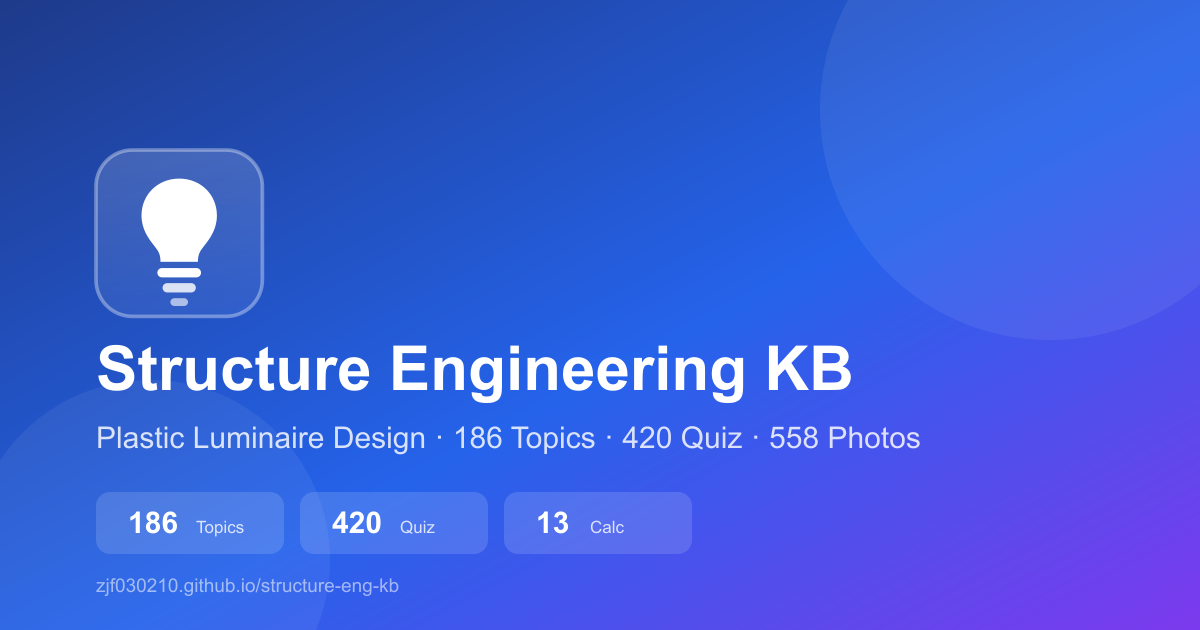
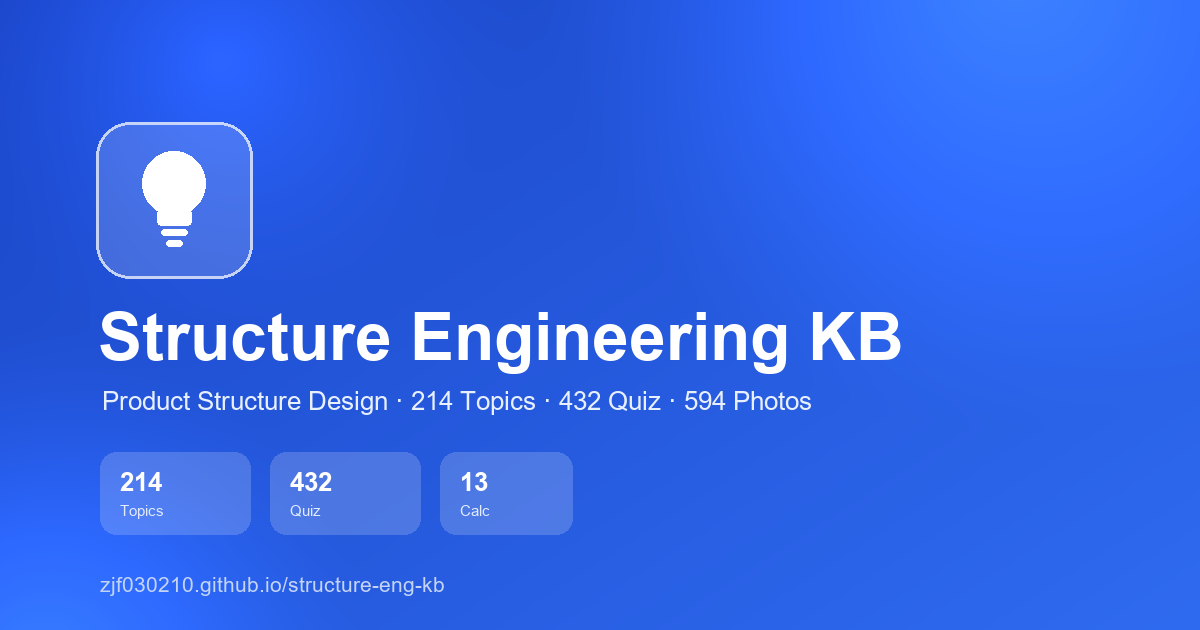
去掉「塑料灯具方向」的定位限制，改为通用的「产品结构设计」
- 标题 / SEO 描述与关键词 / og 与 twitter 卡片 / 页头副标题 / 首页大标题 / 页脚署名：
  「塑料灯具结构设计 · 塑料灯具方向」统一换成「产品结构设计」，
  页头副标题改为「通用结构工程 · 从选材到量产」
- og-image.png 重做：去掉 Plastic Luminaire Design，数字同步为 214 / 432 / 594
  （旧图还停在 186 Topics / 420 Quiz / 558 Photos）
- STEP 成本评估导出给 AI 的评审提示词里，自我介绍不再限定「塑料灯具：小夜灯、氛围灯、补光灯」
- 整机案例描述改「三款整机产品」；使用说明.txt 同步
- 知识点正文、题库解析、案例内容本身不动 —— 只改定位表述，
  让站点不再只服务灯具品类

diff --git a/index.html b/index.html
@@ -3,9 +3,9 @@
 <head>
 <meta charset="UTF-8">
 <meta name="viewport" content="width=device-width, initial-scale=1.0">
-<title>结构工程师知识库 · 塑料灯具结构设计（214 条知识点 / 432 道自测题）</title>
-<meta name="description" content="面向塑料灯具结构设计的完整知识库：214 条知识点覆盖材料、成型、模具、结构、公差、表面处理、光学、散热、安规、测试、包装与成本，每条含深度解析、经验数值、参考图与视频；另有 432 道自测题、13 个工程计算器、速查手册、检查清单与实战模板。">
-<meta name="keywords" content="结构工程师,塑料灯具,结构设计,注塑,DFM,脱模斜度,卡扣,公差,光学设计,散热,安规认证,知识库">
+<title>结构工程师知识库 · 产品结构设计（214 条知识点 / 432 道自测题）</title>
+<meta name="description" content="面向产品结构设计的完整知识库，不限行业与产品品类：214 条知识点覆盖材料、成型、模具、结构、公差、表面处理、光学、散热、安规、测试、包装与成本，每条含深度解析、经验数值、参考图与视频；另有 432 道自测题、13 个工程计算器、速查手册、检查清单与实战模板。">
+<meta name="keywords" content="结构工程师,产品结构设计,结构设计,塑料件,注塑,DFM,脱模斜度,卡扣,公差,光学设计,散热,安规认证,知识库">
 <meta name="author" content="光光light">
 <meta name="theme-color" content="#2563eb">
 <link rel="canonical" href="https://zjf030210.github.io/structure-eng-kb/">
@@ -14,7 +14,7 @@
 <link rel="manifest" href="manifest.webmanifest">
 <meta property="og:type" content="website">
 <meta property="og:site_name" content="结构工程师知识库">
-<meta property="og:title" content="结构工程师知识库 · 塑料灯具结构设计">
+<meta property="og:title" content="结构工程师知识库 · 产品结构设计">
 <meta property="og:description" content="214 条知识点 + 594 张实景参考图 + 432 道自测题 + 13 个工程计算器。从材料选型到量产成本，一条一条讲透。">
 <meta property="og:image" content="https://zjf030210.github.io/structure-eng-kb/og-image.png">
 <meta property="og:image:width" content="1200">
@@ -22,7 +22,7 @@
 <meta property="og:url" content="https://zjf030210.github.io/structure-eng-kb/">
 <meta property="og:locale" content="zh_CN">
 <meta name="twitter:card" content="summary_large_image">
-<meta name="twitter:title" content="结构工程师知识库 · 塑料灯具结构设计">
+<meta name="twitter:title" content="结构工程师知识库 · 产品结构设计">
 <meta name="twitter:description" content="214 条知识点 + 594 张实景参考图 + 432 道自测题 + 13 个工程计算器。">
 <meta name="twitter:image" content="https://zjf030210.github.io/structure-eng-kb/og-image.png">
 <style>
@@ -1896,7 +1896,7 @@
       <div class="logo"><svg class="ic-lg" aria-hidden="true"><use href="#i-bulb"/></svg></div>
       <div>
         <h1 class="t1">结构工程师知识库</h1>
-        <div class="t2">通用结构工程 · 塑料灯具方向</div>
+        <div class="t2">通用结构工程 · 从选材到量产</div>
       </div>
     </div>
     <div class="search">
@@ -2133,7 +2133,7 @@
       <div class="mic"><svg class="ic-lg" aria-hidden="true"><use href="#i-box"/></svg></div>
       <div>
         <h2>整机案例拆解</h2>
-        <div class="mtg">三款塑料灯具，从定位、选材、结构、光学、散热到成本与常见问题，完整复盘一遍</div>
+        <div class="mtg">三款整机产品，从定位、选材、结构、光学、散热到成本与常见问题，完整复盘一遍</div>
       </div>
     </div>
     <div class="qv-tabs" id="caseTabs"></div>
@@ -2169,7 +2169,7 @@
   <!-- 首页 -->
   <div id="homeView">
     <div class="hero">
-      <h2>👋 结构工程师知识库 · 塑料灯具方向</h2>
+      <h2>👋 结构工程师知识库 · 产品结构设计</h2>
       <p>按「<b>学 → 查 → 练 → 考 → 补</b>」闭环组织的完整学习系统：<b data-cnt="items">214 条</b>知识点（每条含一句话记忆、经验数值、5 节深度解析、动手练习、B 站视频、3 张参考图）· <b data-cnt="quiz">432 道</b>自测题 · <b data-cnt="img">594 张</b>实景参考图 · <b data-cnt="calc">13 个</b>工程计算器 · 错题本 / 学习数据 / 选型决策 / 速查手册 / 检查清单 / 实战模板 / 整机案例 / 术语词典 / 实战宝典。</p>
       <div class="hero-actions">
         <button class="h-btn hot" id="coreBtn"><svg class="ic" aria-hidden="true"><use href="#i-flame"/></svg> 只看核心必会</button>
@@ -2376,7 +2376,7 @@
   <!-- 打印页脚：只在打印时出现，让那张纸有出处（含站点二维码） -->
   <div class="print-foot">
     <div class="pf-txt">
-      <b>结构工程师知识库</b>　塑料灯具结构设计 · <span data-cnt="items">214 条</span>知识点 / <span data-cnt="quiz">432 道</span>自测题<br>
+      <b>结构工程师知识库</b>　产品结构设计 · <span data-cnt="items">214 条</span>知识点 / <span data-cnt="quiz">432 道</span>自测题<br>
       <span class="pf-url">zjf030210.github.io/structure-eng-kb</span>
     </div>
     <img class="pf-qr" src="images/qr-site.svg" alt="扫码打开站点" width="68" height="68">

diff --git a/kb-step.js b/kb-step.js
@@ -574,7 +574,7 @@
     L.push("2. 这个成本结构里哪一项压缩空间最大？给出具体可执行的降本方向（含预期幅度）。");
     L.push("3. 上面的模具分组（哪几个零件拼在同一套模具里）是否合理？请逐组评估：产量、材料、颜色、精度、模具尺寸是否匹配；哪些零件应该拆成单独一副模具，哪些还可以继续合并进来？");
     L.push("4. 从零件的体积/表面积比例看，是否存在壁厚过厚、可以减料或抽壳的部位？请指出具体是哪个零件。");
-    L.push("5. 材料选型是否合理？哪些零件换材料后成本或性能会明显改善？（我主要做塑料灯具：小夜灯、氛围灯、补光灯，也涉及树脂一体成型、搪胶、软硅胶等小众工艺）");
+    L.push("5. 材料选型是否合理？哪些零件换材料后成本或性能会明显改善？（我做的产品品类比较杂，各类塑胶件结构都有涉及，也熟悉树脂一体成型、搪胶、软硅胶等工艺）");
     L.push("6. 前期的风险提示：哪些零件在开模前必须再确认（脱模斜度、卡扣强度、缩水、透光均匀性等）？");
     L.push("");
     L.push("如果信息不足，请先说明你需要补充什么，不要凭空假设尺寸或结构细节。");

diff --git a/kb-changelog.js b/kb-changelog.js
@@ -4,6 +4,17 @@
  * ============================================================ */
 window.KB_CHANGELOG = [
   {
+    d: "2026-10-16",
+    t: "去掉「塑料灯具方向」的定位限制",
+    items: [
+      "标题、SEO 描述与关键词、og / twitter 卡片、页头副标题、首页大标题、页脚署名里的「塑料灯具结构设计 / 塑料灯具方向」全部换成中性的「产品结构设计」—— 这个站不只适用于灯具，各类产品的结构设计都能用",
+      "页头副标题改为「通用结构工程 · 从选材到量产」；首页大标题改为「结构工程师知识库 · 产品结构设计」",
+      "社交分享图（og-image.png）重做：去掉 Plastic Luminaire Design，数字同步为 214 条知识点 / 432 道自测题 / 594 张参考图（旧图还停在 186 / 420 / 558）",
+      "STEP 成本评估导出给 AI 的评审提示词里，自我介绍不再限定「塑料灯具：小夜灯、氛围灯、补光灯」，改成「各类塑胶件结构都有涉及」",
+      "知识点正文、题库解析、整机案例这些内容本身不动 —— 只是不再把整个站定位成只服务灯具品类",
+    ]
+  },
+  {
     d: "2026-10-06",
     t: "访问统计只保留浏览量（PV）",
     items: [
